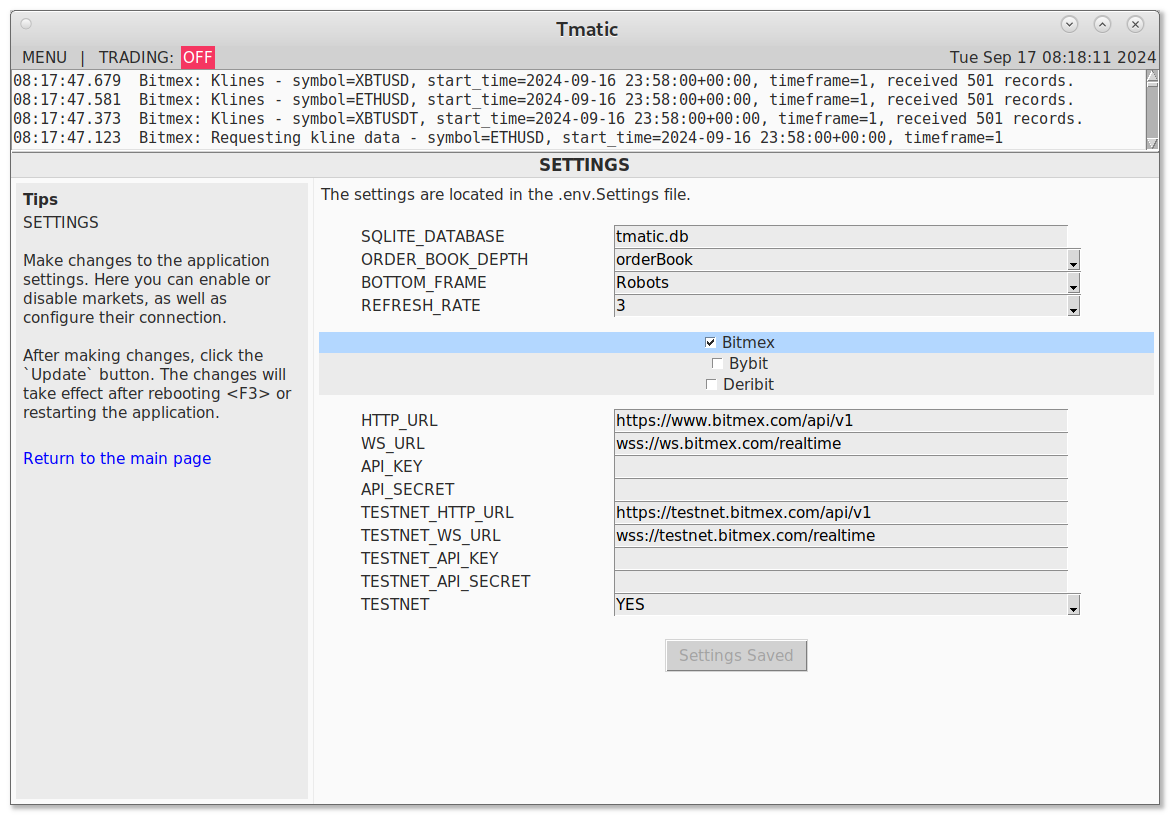
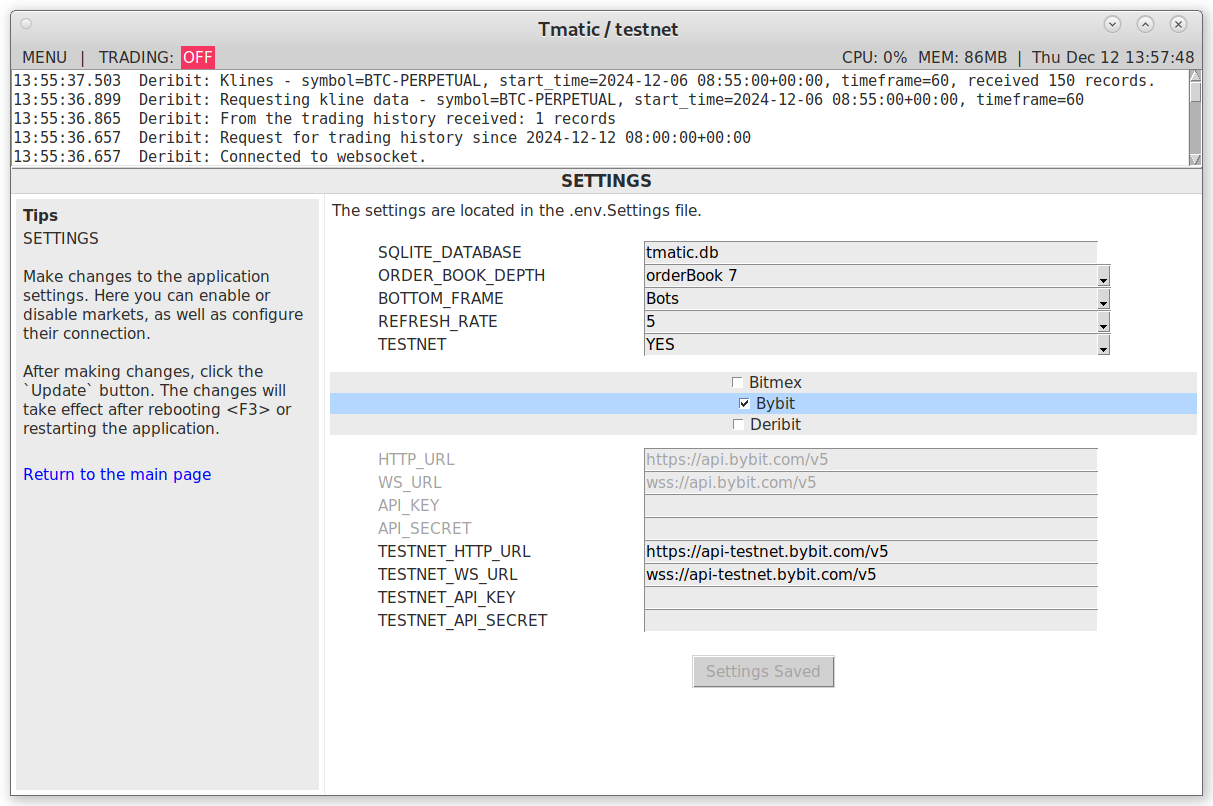
README.md update

Changed region(s): [[0.0, 0.031, 1.0, 0.7754], [0.5538, 0.7754, 0.7077, 0.8685], [0.8923, 0.7134, 0.9231, 0.7754]]

diff --git a/README.md b/README.md
@@ -170,6 +170,7 @@ SQLITE_DATABASE='tmatic.db'
 ORDER_BOOK_DEPTH='orderBook 7'
 BOTTOM_FRAME='robots'
 REFRESH_RATE='5'
+TESTNET='YES'
 #
 Bitmex_CONNECTED='YES'
 Bitmex_HTTP_URL='https://www.bitmex.com/api/v1'
@@ -180,7 +181,6 @@ Bitmex_TESTNET_HTTP_URL='https://testnet.bitmex.com/api/v1'
 Bitmex_TESTNET_WS_URL='wss://testnet.bitmex.com/realtime'
 Bitmex_TESTNET_API_KEY=''
 Bitmex_TESTNET_API_SECRET=''
-Bitmex_TESTNET='YES'
 #
 Bybit_CONNECTED='YES'
 Bybit_HTTP_URL='https://api.bybit.com/v5'
@@ -191,7 +191,6 @@ Bybit_TESTNET_HTTP_URL='https://api-testnet.bybit.com/v5'
 Bybit_TESTNET_WS_URL='wss://api-testnet.bybit.com/v5'
 Bybit_TESTNET_API_KEY=''
 Bybit_TESTNET_API_SECRET=''
-Bybit_TESTNET='YES'
 #
 Deribit_CONNECTED='YES'
 Deribit_HTTP_URL='https://www.deribit.com'
@@ -202,7 +201,6 @@ Deribit_TESTNET_HTTP_URL='https://test.deribit.com'
 Deribit_TESTNET_WS_URL='wss://test.deribit.com/ws'
 Deribit_TESTNET_API_KEY=''
 Deribit_TESTNET_API_SECRET=''
-Deribit_TESTNET='YES'
 ```
 
 - MARKET_LIST currently supports Bitmex, Bybit, and Deribit, sorted by how they appear in the app.
@@ -215,6 +213,8 @@ Deribit_TESTNET='YES'
 
 - REFRESH_RATE — determines how often the information on the screen is refreshed, from 1 to 10 times per second.
 
+- TESTNET — "YES" activates the test network.
+
 - CONNECTED — "YES" means that the exchange must be connected.
 
 - HTTP_URL — the exchange's http network.
@@ -226,8 +226,6 @@ Deribit_TESTNET='YES'
 - API_SECRET — the secret code received from the exchange.
 
 The next four parameters have the same meanings, but are related to the test network.
-
-- TESTNET — "YES" activates the test network.
 
 ```.env.Subscriptions```
 
